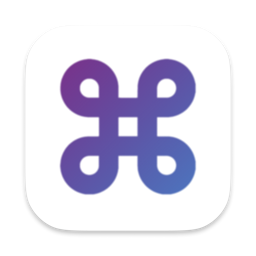
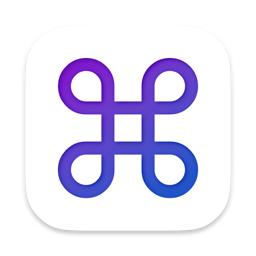
new version update

Changed region(s): [[0.2188, 0.2188, 0.7812, 0.7812]]

diff --git a/readme.md b/readme.md
@@ -20,33 +20,39 @@ Simple and handy overview of all shortcuts for any application. Easy to use: jus
 
 ### Install
 
-#### Using Homebrew
-
+#### Homebrew
 ```
 brew install --cask keyclu
 ```
 
-#### Manual download
-Latest version can be found here:
-* [download .dmg](https://github.com/Anze/KeyCluCask/releases/latest)
-* [download .zip](https://github.com/Anze/KeyCluCask/releases/latest)
+#### Manual
+* [latest version](https://github.com/Anze/KeyCluCask/releases/latest)
 
-### Access
-KeyClu ask for permissions:
-* Accessibility - require to operate
-* Notification Center - optional, gentle update notification
+### Permissions
+* Required access to `Accessibility API` to operate.
+* Preferred to have access to `Notification Center` to provide gentle update notification.
 
 ### Usage
 * Press `⌘` key twice and hold (default) to present shortcuts of current app
 * Press `⌘` key and hold (alternative) to present shortcuts of current app
 * Press `⌘` key 3 times to toggle persistent panel
-* Trigger show shortcuts panel by passing `--show-shortcuts` param
-* Toggle persistent panel by passing `--toggle-persistent` param
+
+### Integrations
+* [CustomShortcuts](https://www.houdah.com/customShortcuts/) to customize shortcuts.
+* Other tools like [skhd](https://github.com/koekeishiya/skhd) to change KeyClu activation hotkey:
+ * Trigger show shortcuts panel by passing `--show-shortcuts` param
+ * Toggle persistent panel by passing `--toggle-persistent` param
 
 If icon of the App is hidden in menu bar, you can call Settings window by quickly pressing `⌃`(ctrl) key 3 times.
 
 ### License
 KeyClu is released under the BSD-3-Clause-Clear license. See [LICENSE](LICENSE) for details.
+
+### Privacy Policy
+KeyClu collects no personal information nor does use any services for analytics, advertising etc.
+
+### Contributors
+* [wanwindwalker](https://github.com/wanwindwalker) updated app icon.
 
 ### Thanks
 Thanks to all the people who made suggestions and reported bugs. Thank you guys so much!
